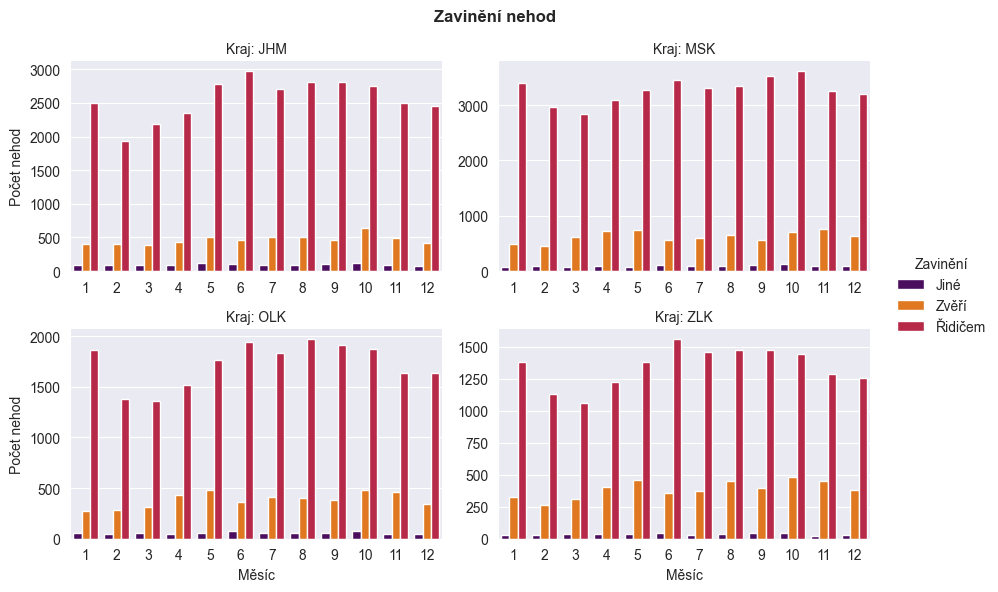
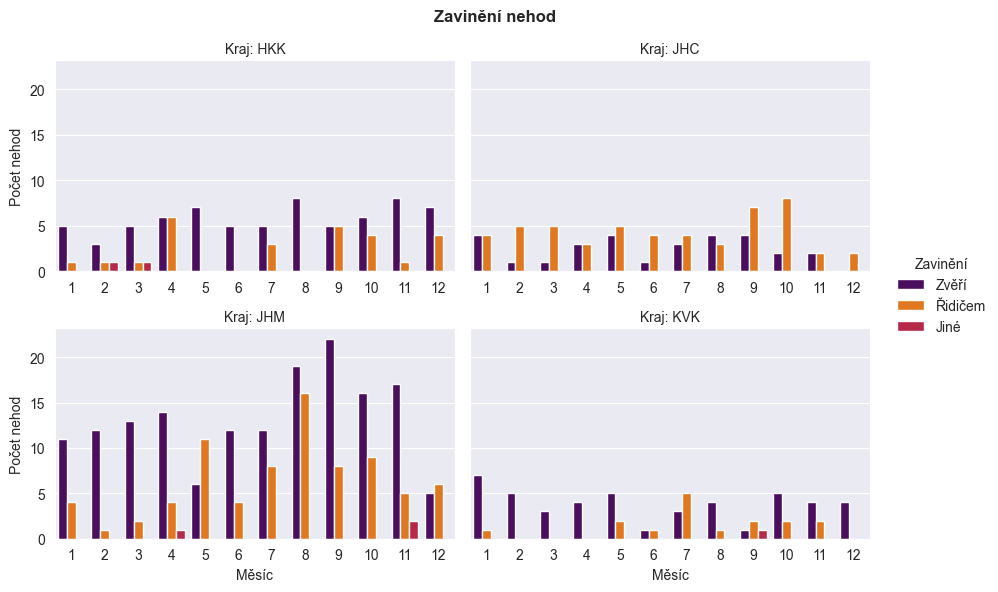
Generating correct graphs

diff --git a/analysis.py b/analysis.py
@@ -1,49 +1,67 @@
 #!/usr/bin/env python3.9
 # coding=utf-8
 from matplotlib import pyplot as plt
-from datetime import date
+from matplotlib.dates import DateFormatter
 import pandas as pd
 import seaborn as sns
 import numpy as np
 import os
-import re
 
-# muzete pridat libovolnou zakladni knihovnu ci knihovnu predstavenou na prednaskach
-# dalsi knihovny pak na dotaz
+# muzete pridat libovolnou zakladni knihovnu ci knihovnu
+# predstavenou na prednaskach dalsi knihovny pak na dotaz
 
 """ Ukol 1:
-načíst soubor nehod, který byl vytvořen z vašich dat. Neznámé integerové hodnoty byly mapovány na -1.
+načíst soubor nehod, který byl vytvořen z vašich dat.
+Neznámé integerové hodnoty byly mapovány na -1.
 
 Úkoly:
-- vytvořte sloupec date, který bude ve formátu data (berte v potaz pouze datum, tj sloupec p2a)
-- vhodné sloupce zmenšete pomocí kategorických datových typů. Měli byste se dostat po 0.5 GB. Neměňte však na kategorický typ region (špatně by se vám pracovalo s figure-level funkcemi)
-- implementujte funkci, která vypíše kompletní (hlubkou) velikost všech sloupců v DataFrame v paměti:
+- vytvořte sloupec date, který bude ve formátu data (berte v potaz
+    pouze datum, tj sloupec p2a)
+- vhodné sloupce zmenšete pomocí kategorických datových typů.
+    Měli byste se dostat po 0.5 GB. Neměňte však na kategorický
+    typ region (špatně by se vám pracovalo s figure-level funkcemi)
+- implementujte funkci, která vypíše kompletní (hlubkou) velikost
+    všech sloupců v DataFrame v paměti:
 orig_size=X MB
 new_size=X MB
 
-Poznámka: zobrazujte na 1 desetinné místo (.1f) a počítejte, že 1 MB = 1e6 B. 
+Poznámka: zobrazujte na 1 desetinné místo (.1f) a počítejte, že 1 MB = 1e6 B.
 """
 road_types = {
-    0 : "Žádná z uvedených",
-    1 : "Dvoupruhová",
-    2 : "Třípruhová",
-    3 : "Čtyřpruhová",
-    4 : "Čtyřpruhová",
-    5 : "Vícepruhová",
-    6 : "Rychlostní komunikace"
+    0: "Žádná z uvedených",
+    1: "Dvoupruhová",
+    2: "Třípruhová",
+    3: "Čtyřpruhová",
+    4: "Čtyřpruhová",
+    5: "Vícepruhová",
+    6: "Rychlostní komunikace"
 }
 
 fault = {
-    0 : "Jiné",
-    1 : "Řidičem",
-    2 : "Řidičem",
-    3 : "Jiné",
-    4 : "Zvěří",
-    5 : "Jiné",
-    6 : "Jiné",
-    7 : "Jiné",
+    0: "Jiné",
+    1: "Řidičem",
+    2: "Řidičem",
+    3: "Jiné",
+    4: "Zvěří",
+    5: "Jiné",
+    6: "Jiné",
+    7: "Jiné",
 }
 
+weather = {
+    1 : "Nestížené",
+    2 : "Mlha",
+    3 : "Na počátku deště",
+    4 : "Déšť",
+    5 : "Sněžení",
+    6 : "Náledí",
+    7 : "Nárazový vítr"
+}
+
+
+"""
+Get 
+"""
 def get_dataframe(filename: str, verbose: bool = False) -> pd.DataFrame:
     df = pd.read_pickle(filename)
     if verbose:
@@ -55,29 +73,29 @@ def get_dataframe(filename: str, verbose: bool = False) -> pd.DataFrame:
 
     df['p2a'] = pd.to_datetime(df['p2a'])
     df['date'] = df['p2a'].copy()
-    
+
     if verbose:
         print(f"new_size={df.memory_usage(deep=True).sum() / 1048576:.1f} MB")
 
     return df
 
-# Ukol 2: počty nehod v jednotlivých regionech podle druhu silnic
 
+# Ukol 2: počty nehod v jednotlivých regionech podle druhu silnic
 def plot_roadtype(df: pd.DataFrame, fig_location: str = None,
                   show_figure: bool = False):
-    df_type = df[df['region'].isin(['MSK', 'JHM', 'ZLK', 'OLK'])][['region', 'p21']]
+    df_type = df[df['region'].isin(['JHC', 'JHM', 'HKK', 'KVK'])][['region', 'p21']]
     df_type['tmp'] = 1
     df_type.loc[df_type['p21'] == 4] = 3
     df_type = df_type.groupby(['region', 'p21']).agg('sum').reset_index()
     df_type = df_type.sort_values(by=['p21'])
-    df_type['p21'] = df_type['p21'].map(road_types) 
+    df_type['p21'] = df_type['p21'].map(road_types)
 
     sns.set_style("darkgrid")
     sns.set_palette("rocket")
 
     g = sns.catplot(x="region", y="tmp", data=df_type, col="p21", kind="bar",
-                        col_wrap=3, height=3.5, aspect=1, ci=None, sharex=False, 
-                        sharey=False, order=['JHM', 'MSK', 'ZLK', 'OLK'])
+                    col_wrap=3, height=3.5, aspect=1, ci=None, sharex=False,
+                    sharey=False, order=['JHC', 'JHM', 'HKK', 'KVK'])
     (g.set_titles("{col_name}")
         .set_axis_labels("Kraj", "Počet nehod")
         .fig.suptitle('Druh komunikace', weight="bold"))
@@ -87,30 +105,32 @@ def plot_roadtype(df: pd.DataFrame, fig_location: str = None,
             labels = [f'{v.get_height():.0f}' for v in c]
             ax.bar_label(c, labels=labels, label_type='edge', weight="bold")
         ax.margins(y=0.1)
-    
+
     g.tight_layout()
 
     if fig_location:
         plt.savefig(fig_location, bbox_inches='tight')
-    
+
     if show_figure:
         plt.show()
+
 
 # Ukol3: zavinění zvěří
 def plot_animals(df: pd.DataFrame, fig_location: str = None,
                  show_figure: bool = False):
 
-    df_animals = df[df['region'].isin(['MSK', 'JHM', 'ZLK', 'OLK'])][['region', 'p10', 'date']]
+    df_animals = df[df['p58'] == 5]
+    df_animals = df_animals[df_animals['region'].isin(['JHC', 'JHM', 'HKK', 'KVK'])][['region', 'p10', 'date']]
     df_animals = df_animals[(df_animals['date'] >= pd.to_datetime('2016-1-1')) & (df_animals['date'] <= pd.to_datetime('2020-12-31'))]
     df_animals['p10'] = df_animals['p10'].map(fault)
     df_animals['date'] = df_animals['date'].dt.month
     df_animals['tmp'] = 1
     df_animals = df_animals.groupby(['region', 'date', 'p10']).agg('sum').reset_index()
 
-    sns.set_palette(["#52006A", "#FF7600", "#CD113B"]) 
-    g = sns.catplot(x="date", y='tmp', data=df_animals, col="region", kind="bar",
-                        col_wrap=2, height=3, aspect=1.5, ci=None, hue="p10", sharex=False, 
-                        sharey=False)
+    sns.set_palette(["#52006A", "#FF7600", "#CD113B"])
+    g = sns.catplot(x="date", y='tmp', data=df_animals, col="region",
+                    kind="bar", col_wrap=2, height=3, aspect=1.5,
+                    ci=None, hue="p10", sharex=False, sharey=True)
     (g.set_titles("Kraj: {col_name}")
         .set_axis_labels("Měsíc", "Počet nehod")
         .fig.suptitle('Zavinění nehod', weight="bold"))
@@ -119,24 +139,50 @@ def plot_animals(df: pd.DataFrame, fig_location: str = None,
 
     if fig_location:
         plt.savefig(fig_location, bbox_inches='tight')
-    
+
     if show_figure:
         plt.show()
+
 
 # Ukol 4: Povětrnostní podmínky
 def plot_conditions(df: pd.DataFrame, fig_location: str = None,
                     show_figure: bool = False):
-
+    
+    df_w = df[df['region'].isin(['JHC', 'JHM', 'HKK', 'KVK'])][['region', 'p18', 'date']]
+    df_w = df_w[(df_w['date'] >= pd.to_datetime('2016-1-1')) & (df_w['date'] <= pd.to_datetime('2020-12-31'))]
+    df_w = df_w[df_w['p18'] != 0]
+    df_w['p18'] = df_w['p18'].map(weather)
+    df_w['tmp'] = 1
+    df_w = df_w.pivot_table(columns='p18', values='tmp', index=['date', 'region'], aggfunc='sum').reset_index()
+    df_w = df_w.fillna(0)
+    df_w = df_w.groupby([pd.Grouper(key='date', freq='M'), 'region']).agg('sum').reset_index()
+    df_w = df_w.melt(id_vars=["region", 'date'], var_name="p18", value_name="value")
     
 
+    sns.set_palette("bright")
+    g = sns.relplot(data=df_w, kind="line", x="date", y='value', hue='p18',
+                    col='region', col_wrap=2, height=3, aspect=1.5, 
+                    facet_kws={'sharey': False, 'sharex': False})
+
+    (g.set_titles("Kraj: {col_name}")
+        .set_axis_labels("Rok", "Počet nehod")
+        .fig.suptitle('Povětrnostní podmínky', weight="bold"))
+    g._legend.set_title("Podmínky")
+
+    date_form = DateFormatter("%m/%y")
+    for ax in g.axes.flatten():
+        ax.xaxis.set_major_formatter(date_form)
+    
+    g.tight_layout()
     if fig_location:
         plt.savefig(fig_location)
-    
+
     if show_figure:
         plt.show()
 
+
 if __name__ == "__main__":
-    df = get_dataframe("accidents.pkl.gz")
-    #plot_roadtype(df, fig_location="01_roadtype.png", show_figure=False)
-    #plot_animals(df, "02_animals.png", False)
-    plot_conditions(df, "03_conditions.png")
+    df = get_dataframe("accidents.pkl.gz", True)
+    plot_roadtype(df, fig_location="01_roadtype.png", show_figure=False)
+    plot_animals(df, "02_animals.png", False)
+    plot_conditions(df, "03_conditions.png", False)
